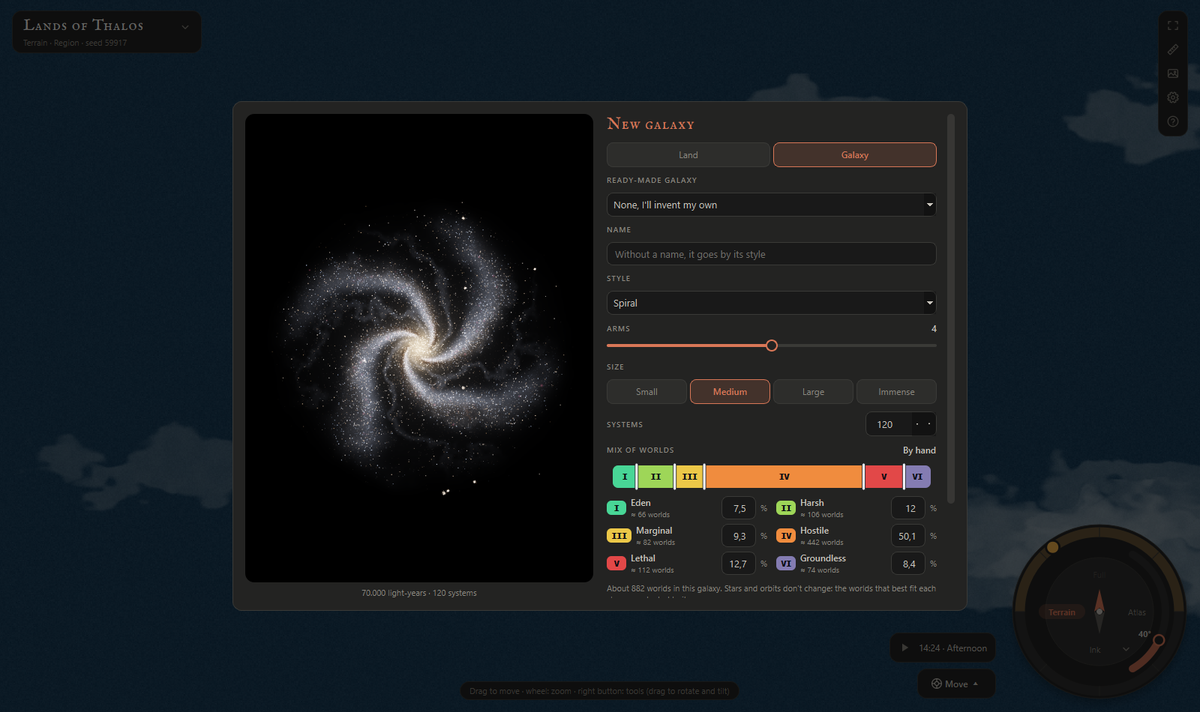
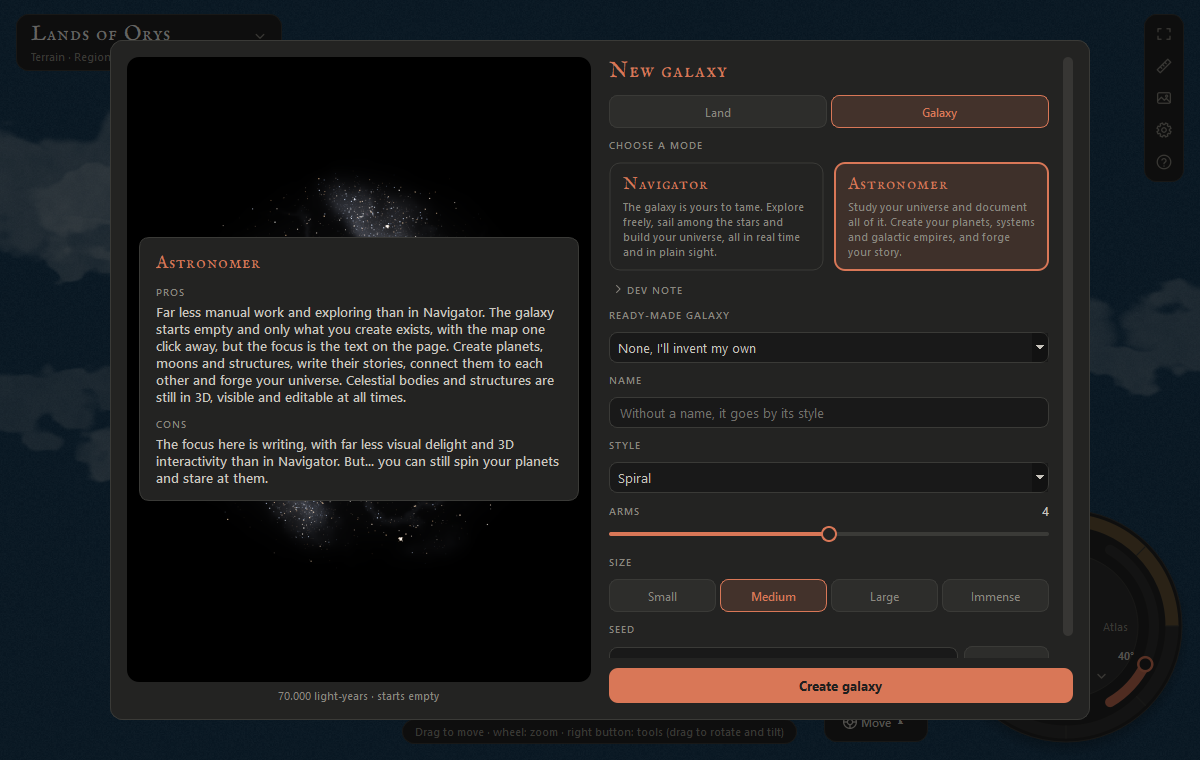
docs(ajuda): tutorial do Galaxy Maps com os dois modos
Explica Navegador e Astrônomo, com passos e prints novos do Astrônomo.

diff --git a/src/HelpPanel.cpp b/src/HelpPanel.cpp
@@ -2427,50 +2427,65 @@ QString HelpPanel::galaxyMapsContent() const
     };
     html += QStringLiteral("<p>%1</p>").arg(tr("O Galaxy Maps é o mapa de quem escreve no espaço: uma galáxia inteira que você atravessa com a rodinha do mouse, do braço espiral até a lua de um planeta. Os planetas têm temperatura, ano e atmosfera calculados pela estrela deles, e cada lugar pode guardar os documentos da sua história."));
     html += QStringLiteral("<p>%1</p>").arg(tr("Parece muito na primeira vez, mas dá pra começar só com duas coisas: arrastar pra mover e usar a rodinha pra chegar perto. O resto você pega quando precisar. Colocar, mover e apagar voltam com Ctrl+Z, e a galáxia se salva sozinha."));
+    html += QStringLiteral("<p>%1</p>").arg(tr("O Galaxy Maps tem dois modos, e você escolhe um ao criar a galáxia: o Astrônomo, pra quem quer escrever, e o Navegador, pra quem quer explorar."));
     html += QStringLiteral("<p style='margin-bottom:12px;'><b>1- %1</b><br>%2</p>")
         .arg(tr("Criando uma galáxia."),
-             tr("Abra o Mapa na barra lateral, clique na setinha ao lado do título e em \"Novo mapa…\". Na janela, escolha Galáxia na chave de cima (no primeiro mapa do projeto, essa janela já abre sozinha). Em Galáxia pronta há a Via Láctea, com o Sistema Solar no lugar dele, e outras galáxias reais; ou invente a sua com estilo, braços, tamanho, quantidade de sistemas e mistura de mundos. Marque \"Definir o espaço de cada classe\" pra dizer quanto a galáxia vai ter de cada classe de planeta: arraste as divisórias da barra ou digite a porcentagem. A prévia acompanha o que você escolhe. A mesma semente sempre dá a mesma galáxia."));
+             tr("Abra o Mapa na barra lateral, clique na setinha ao lado do título e em \"Novo mapa…\". Na janela, escolha Galáxia na chave de cima (no primeiro mapa do projeto, essa janela já abre sozinha) e depois o modo, nos dois cartões: passe o mouse em cima de um deles pra ver os prós e os contras. Em Galáxia pronta há a Via Láctea, com o Sistema Solar no lugar dele, e outras galáxias reais; ou invente a sua com estilo, braços e tamanho. No Navegador, você também define a quantidade de sistemas e a mistura de mundos, e pode marcar \"Definir o espaço de cada classe\" pra dizer quanto a galáxia vai ter de cada classe de planeta: arraste as divisórias da barra ou digite a porcentagem. A prévia acompanha o que você escolhe. A mesma semente sempre dá a mesma galáxia."));
     shot(QStringLiteral("new-galaxy"));
     html += QStringLiteral("<p style='margin-bottom:12px;'><b>2- %1</b><br>%2</p>")
+        .arg(tr("Os dois modos."),
+             tr("O Navegador já nasce com centenas de sistemas, planetas e luas, e tudo acontece em cima do mapa: você entra nos sistemas, constrói e escreve sobre o que encontrar. O Astrônomo nasce vazio e só existe o que você criar, na ordem que quiser; a tela é feita pra escrever, com o mapa a um clique. O modo é escolhido ao criar: a tela do Astrônomo só existe nas galáxias que nasceram nele. Os passos 3 a 5 são do Astrônomo e, do 6 em diante, do Navegador."));
+    html += QStringLiteral("<p style='margin-bottom:12px;'><b>3- %1</b><br>%2</p>")
+        .arg(tr("Astrônomo: criando."),
+             tr("A coluna da esquerda guarda o que você criou: os territórios, com os mundos e sistemas de cada um, e os mundos soltos. \"+ Território\" cria um império, e o \"+\" abre a aba de planeta novo, colada na coluna: nome (o dado sorteia um), tipo e construções. Enter cria e Esc fecha. O botão direito em qualquer coisa mostra o que dá pra fazer com ela: renomear, trocar o tipo, mover, tornar capital, ver no mapa, excluir. O que você cria e muda aqui volta com Ctrl+Z."));
+    shot(QStringLiteral("astronomer-new"));
+    html += QStringLiteral("<p style='margin-bottom:12px;'><b>4- %1</b><br>%2</p>")
+        .arg(tr("Astrônomo: escrevendo."),
+             tr("Selecione um lugar e a folha dele abre no meio, com as fontes do app, formatação, corretor, Modo Foco, imagens e menções com @. A direita mostra onde você está e o planeta em 3D: arraste pra girar, use a rodinha pra aproximar e dê dois cliques pra voltar ao normal. \"+ Lua\" e \"+ Construção\" ficam ali mesmo, e \"Abrir ficha técnica completa\" mostra a aparência, a órbita e os outros dados. O app só gera o que você pedir: \"Gerar o que está vazio\", na ficha completa, preenche os campos em branco, e você escolhe se fica com o resultado ou dispensa."));
+    shot(QStringLiteral("astronomer"));
+    html += QStringLiteral("<p style='margin-bottom:12px;'><b>5- %1</b><br>%2</p>")
+        .arg(tr("Astrônomo: o mapa."),
+             tr("No pé da coluna da esquerda fica o minimapa, só com o que você criou: a rodinha aproxima, arrastar move, o botão direito (ou Ctrl) gira, e clicar num lugar leva até ele. \"Ver no mapa\" abre o mapa da galáxia inteira, o mesmo do Navegador; \"Voltar pro Astrônomo\", ao lado do nome da galáxia, traz você de volta, e a tecla W faz o mesmo."));
+    html += QStringLiteral("<p style='margin-bottom:12px;'><b>6- %1</b><br>%2</p>")
         .arg(tr("Andando pelo mapa."),
              tr("Arraste com o botão esquerdo pra mover e use a rodinha pra aproximar: de longe cada sistema é um ponto, chegando perto ele abre em órbitas, e o planeta vira uma esfera girando; onde mora gente, as cidades acendem no lado da noite. Arrastar com o botão direito gira e inclina o mapa, e a tecla F enquadra tudo de novo. Com outra ferramenta na mão, o botão do meio (ou Alt + arrastar) continua movendo. Passe o mouse em cima de um sistema, em Mover ou Explorar, e um card no canto mostra os planetas e os dados dele, sem precisar de zoom. Dá pra desligar nos Ajustes."));
-    html += QStringLiteral("<p style='margin-bottom:12px;'><b>3- %1</b><br>%2</p>")
+    html += QStringLiteral("<p style='margin-bottom:12px;'><b>7- %1</b><br>%2</p>")
         .arg(tr("O anel de ferramentas."),
              tr("Um clique com o botão direito, sem arrastar, abre o anel com as ferramentas: Mover, Territórios, Construir, Nomes, Explorar, Editar e Tráfego. A pílula no canto de baixo mostra qual está na sua mão e abre o mesmo anel. Se preferir o teclado: H move, T territórios, K construir, N nomes, X explorar, R régua e C o Caderno. Esc desfaz uma coisa de cada vez: fecha o que está aberto, solta a peça da mão e, no fim, volta pro Mover."));
     shot(QStringLiteral("ring"));
-    html += QStringLiteral("<p style='margin-bottom:12px;'><b>4- %1</b><br>%2</p>")
+    html += QStringLiteral("<p style='margin-bottom:12px;'><b>8- %1</b><br>%2</p>")
         .arg(tr("O Astrolábio e as vistas."),
              tr("O instrumento no canto de baixo junta tudo o que muda o jeito de ver. No disco ficam as vistas: Completo, Atlas, Céu (só o céu, sem nomes nem órbitas) e as de arte, que abrem numa lista quando você clica de novo. São oito nascidas do espaço (Holograma, Rotas, Domínios, Gravidade, Harmonia, Infravermelho, Raio-X e Chapa de vidro) e seis de papel, como as do Mapa (Tinta, Pergaminho, Carta estelar, Topográfico, Aquarela e Planta de guerra). Cada uma mostra uma coisa: Rotas, como se vai de um lugar a outro; Domínios, quem manda onde; Infravermelho, a temperatura de cada mundo; Raio-X, onde mora o perigo. Arraste o meio pra girar, clique na agulha pra voltar ao norte, use o arco da direita pra inclinar e o marcador do aro pra adiantar o tempo. P pausa os planetas. Quem preferir botões a um instrumento pode trocar pra Cartela nos Ajustes (a engrenagem na barra da direita)."));
     shot(QStringLiteral("views"));
-    html += QStringLiteral("<p style='margin-bottom:12px;'><b>5- %1</b><br>%2</p>")
+    html += QStringLiteral("<p style='margin-bottom:12px;'><b>9- %1</b><br>%2</p>")
         .arg(tr("As classes de planeta."),
              tr("Cada mundo tem uma classe, que diz quanto custa viver nele: I Éden, II Áspero, III Marginal, IV Hostil, V Letal e VI Sem chão. A conta sai da temperatura, da gravidade, do ar e da estrela. A tecla L (ou o botão na barra da direita) acende a vista: a galáxia escurece, cada sistema brilha na cor do melhor mundo que tem e, de perto, cada mundo ganha o selo da classe. Clique numa classe no cartão pra ver só ela. O painel e o Caderno mostram a classe e o porquê, e em Editar você escolhe a classe na mão ou marca que dá pra respirar o ar daquele mundo. A sua escolha fica, mesmo se a temperatura mudar depois."));
     shot(QStringLiteral("classes"));
-    html += QStringLiteral("<p style='margin-bottom:12px;'><b>6- %1</b><br>%2</p>")
+    html += QStringLiteral("<p style='margin-bottom:12px;'><b>10- %1</b><br>%2</p>")
         .arg(tr("Escrevendo sobre um lugar."),
              tr("Com Explorar (X), clique em qualquer lugar: o painel abre com a foto, os dados e as abas Visão geral, Documentos, Aqui dentro e Dados. A busca no alto leva o mapa até um nome. \"Escrever sobre…\" abre um documento preso àquele lugar, e \"Salvar em\" escolhe onde ele mora: numa gaveta ou no Criador de Mundos, numa pasta com o caminho do lugar. Dá pra mudar depois sem perder o texto. \"Lugar aqui\" e \"Grupo social\" criam o que não está no mapa, como uma cidade ou uma família. O documento vazio não fica pra trás."));
     shot(QStringLiteral("explore"));
-    html += QStringLiteral("<p style='margin-bottom:12px;'><b>7- %1</b><br>%2</p>")
+    html += QStringLiteral("<p style='margin-bottom:12px;'><b>11- %1</b><br>%2</p>")
         .arg(tr("Conexões e personagens."),
              tr("Num território ou sistema, \"+ Nova conexão…\" liga ele a outro: clique no mapa ou escolha na lista. A conexão vira um arco no mapa e abre o lado a lado: os dois lugares nas pontas e, no meio, o texto do que liga os dois, bom pra guerras, tratados e rotas. Em qualquer lugar, \"+ Personagem\" traz uma ficha pra Personagens daqui, como quem mora ali ou quem nasceu ali. Isso fica na própria ficha, em Origem e \"Está em\", e tudo aparece também no Criador de Mundos."));
     shot(QStringLiteral("links"));
-    html += QStringLiteral("<p style='margin-bottom:12px;'><b>8- %1</b><br>%2</p>")
+    html += QStringLiteral("<p style='margin-bottom:12px;'><b>12- %1</b><br>%2</p>")
         .arg(tr("Territórios."),
              tr("Com Territórios (T), crie um em \"+ Novo território\", dê um nome e clique num sistema pra plantar: ele leva junto os vizinhos sem dono dentro do Alcance, e Shift+clique tira. Pintar passa o pincel e os sistemas embaixo entram no território; Neutro faz o contrário. Depois, em Explorar, clicar num território aproxima dele e desfoca o resto da galáxia; \"Sair do foco\" volta."));
     shot(QStringLiteral("territory"));
-    html += QStringLiteral("<p style='margin-bottom:12px;'><b>9- %1</b><br>%2</p>")
+    html += QStringLiteral("<p style='margin-bottom:12px;'><b>13- %1</b><br>%2</p>")
         .arg(tr("Construindo."),
              tr("Com Construir (K), o catálogo abre embaixo: astros, luas e cometas, estações, mundos e megaestruturas. Pegue uma peça e aproxime até um sistema abrir: a sombra da peça mostra onde ela vai cair, e a dica diz o que falta. Clique pra pôr. Perto de um planeta, a peça fica em volta dele; longe, em órbita da estrela. Anel orbital e elevador pedem um planeta, e a Esfera de Dyson vai na estrela. Sem peça na mão, clique pra selecionar e arraste pra mudar de órbita. Q e E giram, [ e ] mudam o tamanho e Delete apaga. Estrela nova pode ser posta em qualquer lugar da galáxia."));
     shot(QStringLiteral("build"));
-    html += QStringLiteral("<p style='margin-bottom:12px;'><b>10- %1</b><br>%2</p>")
+    html += QStringLiteral("<p style='margin-bottom:12px;'><b>14- %1</b><br>%2</p>")
         .arg(tr("Editando os dados."),
              tr("Editar fica no anel. Clique num planeta e a aba Editar deixa trocar o tipo, a temperatura, a água, a paisagem, a vegetação, as nuvens, a população, os anéis e as luas; num sistema, a estrela, e tudo em volta dela se recalcula. \"Gerar outro visual\" sorteia outra aparência sem mudar o resto."));
     shot(QStringLiteral("edit"));
-    html += QStringLiteral("<p style='margin-bottom:12px;'><b>11- %1</b><br>%2</p>")
+    html += QStringLiteral("<p style='margin-bottom:12px;'><b>15- %1</b><br>%2</p>")
         .arg(tr("O Caderno."),
              tr("A tecla C (ou o livrinho na barra da direita) abre a galáxia como um livro de consulta: a árvore de lugares à esquerda, a página do lugar no meio e, enquanto você escreve, a ficha técnica ao lado, pra não precisar sair do texto pra lembrar quanto dura o ano daquele planeta. \"Mostrar\" filtra a árvore por habitáveis, gasosos ou pelo que já tem nome ou documento. Esc sobe um nível, e \"Voltar pro mapa\" sai."));
     shot(QStringLiteral("caderno"));
-    html += QStringLiteral("<p style='margin-bottom:12px;'><b>12- %1</b><br>%2</p>")
+    html += QStringLiteral("<p style='margin-bottom:12px;'><b>16- %1</b><br>%2</p>")
         .arg(tr("Os detalhes."),
              tr("N põe e troca nomes: clique no vazio pra escrever um nome solto (o nome de um mar de estrelas, por exemplo) e Delete esconde um nome. R mede a distância em anos-luz: clique pra marcar o caminho e dê um duplo clique pra terminar. Tráfego, no anel, enche as rotas e os sistemas de naves. V troca o brilho da galáxia entre Cheio e Limpo, bom pra ler os nomes. E o quadradinho de imagem na barra da direita exporta um PNG da vista de agora, pronto pro livro."));
     return html;
